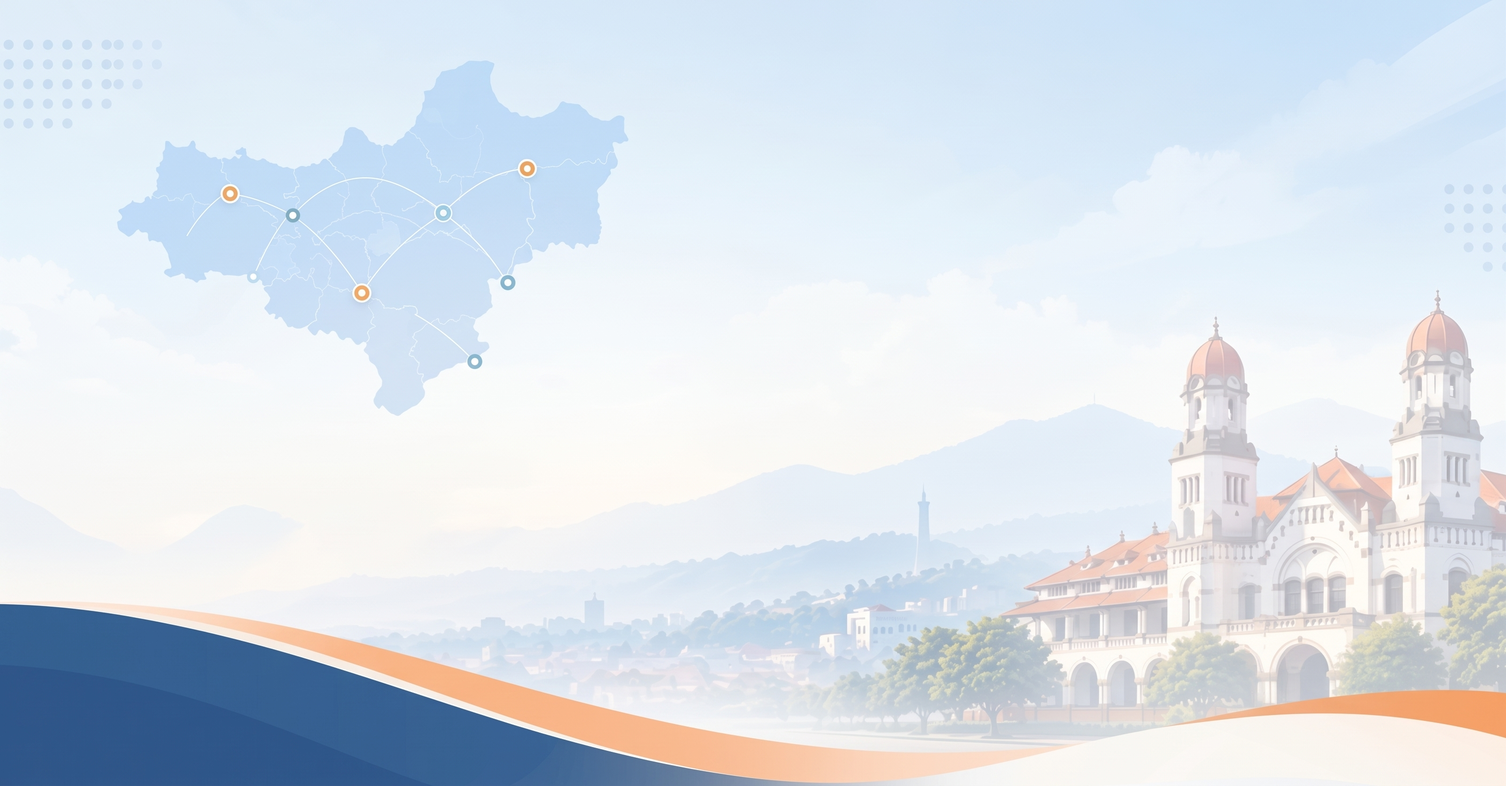
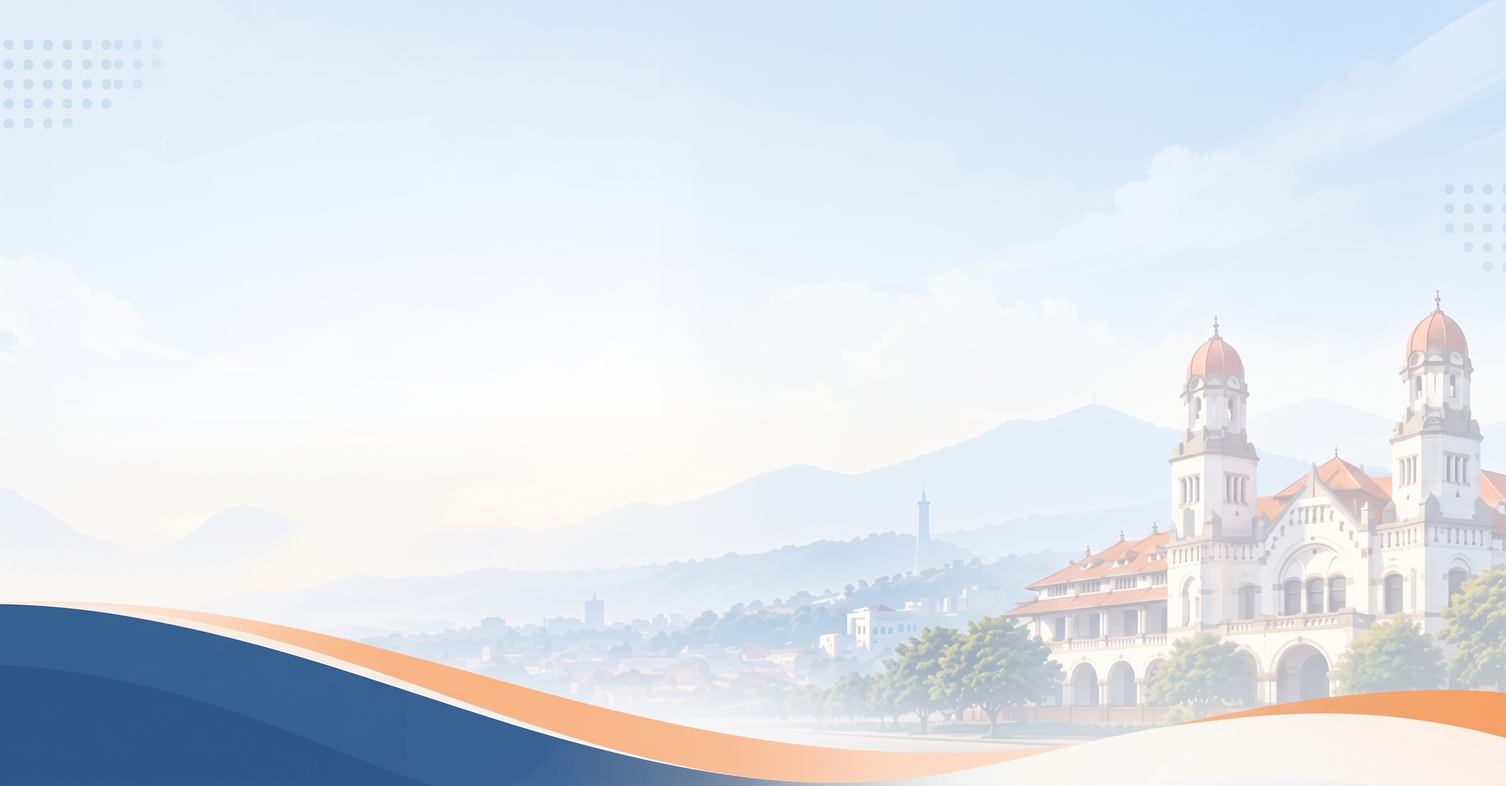
Mengubah background dan sub judul di hero section BERANDA

Changed region(s): [[0.0625, 0.0625, 0.4372, 0.5312]]

diff --git a/app/Views/frontend/home.php b/app/Views/frontend/home.php
@@ -1163,7 +1163,7 @@
         
         <!-- SUB JUDUL -->
         <p class="hero-desc mx-auto mb-4 pb-2" style="font-size: 1.22rem; color: #334155; max-width: 760px; font-weight: 500; line-height: 1.65;">
-            Platform terpadu untuk menelusuri, menganalisis, dan mengunduh data statistik dari seluruh Instansi dan Organisasi Perangkat Daerah di Jawa Tengah secara gratis.
+            Platform terpadu untuk menelusuri dan mengunduh data statistik dari seluruh Organisasi Perangkat Daerah di Jawa Tengah.
         </p>
 
         <!-- SEARCH BAR -->
@@ -1724,7 +1724,7 @@ document.addEventListener('DOMContentLoaded', function() {
                 </li>
                 <li class="nav-item" role="presentation">
                     <button class="nav-link" id="tab-data" data-bs-toggle="pill" data-bs-target="#pane-data" type="button" role="tab" aria-controls="pane-data" aria-selected="false">
-                        <i class="fa-solid fa-shield-halved me-2"></i>Data Terjamin 100%
+                        <i class="fa-solid fa-shield-halved me-2"></i>Standar Satu Data
                     </button>
                 </li>
                 <li class="nav-item" role="presentation">
@@ -1874,8 +1874,8 @@ document.addEventListener('DOMContentLoaded', function() {
                                         </div>
                                         <div class="sim-metric-divider"></div>
                                         <div class="sim-metric">
-                                            <span class="sim-metric-val">100%</span>
-                                            <span class="sim-metric-lbl">Akurasi Data</span>
+                                            <span class="sim-metric-val">Presisi</span>
+                                            <span class="sim-metric-lbl">Pencarian Tepat</span>
                                         </div>
                                     </div>
                                 </div>
@@ -1953,7 +1953,7 @@ document.addEventListener('DOMContentLoaded', function() {
                                             <i class="fa-solid fa-shield-halved"></i>
                                         </div>
                                         <h5 class="sim-trust-title mb-1">Standar Satu Data Indonesia</h5>
-                                        <p class="sim-trust-sub mb-0">Tervalidasi & Bebas Manipulasi</p>
+                                        <p class="sim-trust-sub mb-0">Tervalidasi Sesuai Prinsip SDI</p>
                                     </div>
 
                                     <!-- Verification Points -->
@@ -1975,8 +1975,8 @@ document.addEventListener('DOMContentLoaded', function() {
                                     <!-- Bottom Metric Strip -->
                                     <div class="sim-metrics-strip mt-3">
                                         <div class="sim-metric">
-                                            <span class="sim-metric-val">100%</span>
-                                            <span class="sim-metric-lbl">Otentisitas</span>
+                                            <span class="sim-metric-val">Otentik</span>
+                                            <span class="sim-metric-lbl">Integritas Data</span>
                                         </div>
                                         <div class="sim-metric-divider"></div>
                                         <div class="sim-metric">
@@ -2022,11 +2022,11 @@ document.addEventListener('DOMContentLoaded', function() {
                                 </div>
                                 <div class="kc-highlight-item">
                                     <div class="kc-highlight-icon">
-                                        <i class="fa-solid fa-unlock-keyhole"></i>
+                                        <i class="fa-solid fa-cloud-arrow-down"></i>
                                     </div>
                                     <div class="kc-highlight-text">
-                                        <h6>Akses Unduhan Bebas & Instan</h6>
-                                        <p>Unduh langsung tanpa proses registrasi yang rumit, bebas biaya, dan tanpa batasan kuota berkas.</p>
+                                        <h6>Akses Unduhan Langsung & Terstruktur</h6>
+                                        <p>Unduh berkas data seketika untuk mendukung kebutuhan analisis statistik, kajian data, maupun penyusunan laporan kedinasan.</p>
                                     </div>
                                 </div>
                             </div>
@@ -2081,13 +2081,13 @@ document.addEventListener('DOMContentLoaded', function() {
                                     <!-- Bottom Metric Strip -->
                                     <div class="sim-metrics-strip mt-3">
                                         <div class="sim-metric">
-                                            <span class="sim-metric-val">100%</span>
-                                            <span class="sim-metric-lbl">Gratis & Terbuka</span>
+                                            <span class="sim-metric-val">XLSX</span>
+                                            <span class="sim-metric-lbl">Kalkulasi & Olah Data</span>
                                         </div>
                                         <div class="sim-metric-divider"></div>
                                         <div class="sim-metric">
-                                            <span class="sim-metric-val">Tanpa Kuota</span>
-                                            <span class="sim-metric-lbl">Bebas Akses</span>
+                                            <span class="sim-metric-val">PDF</span>
+                                            <span class="sim-metric-lbl">Standar Cetak & Arsip</span>
                                         </div>
                                     </div>
                                 </div>
